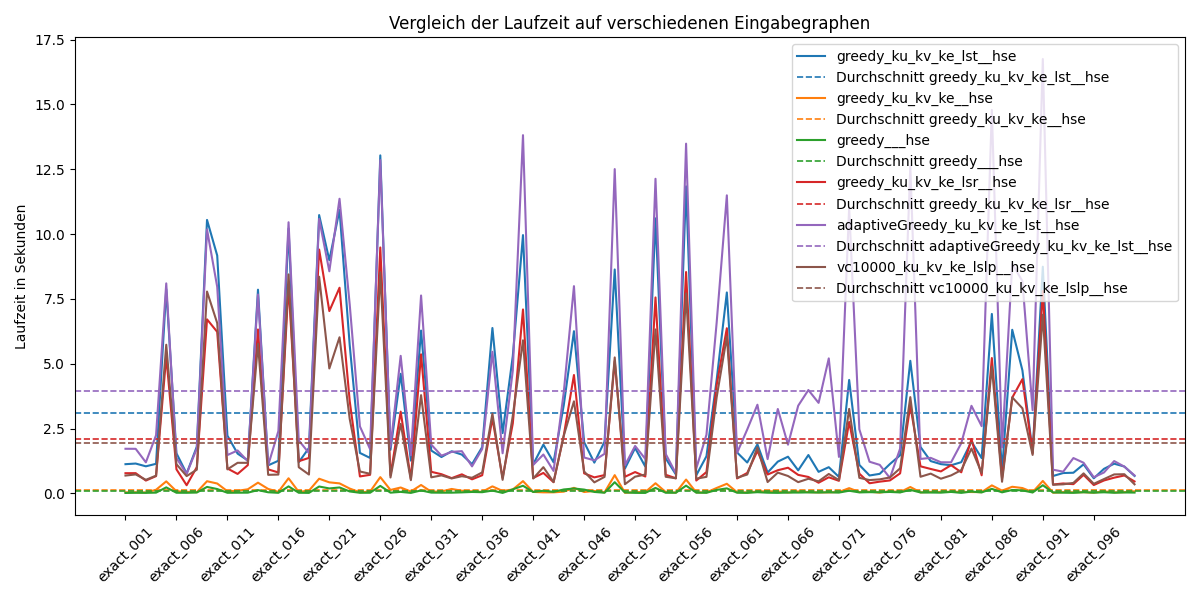
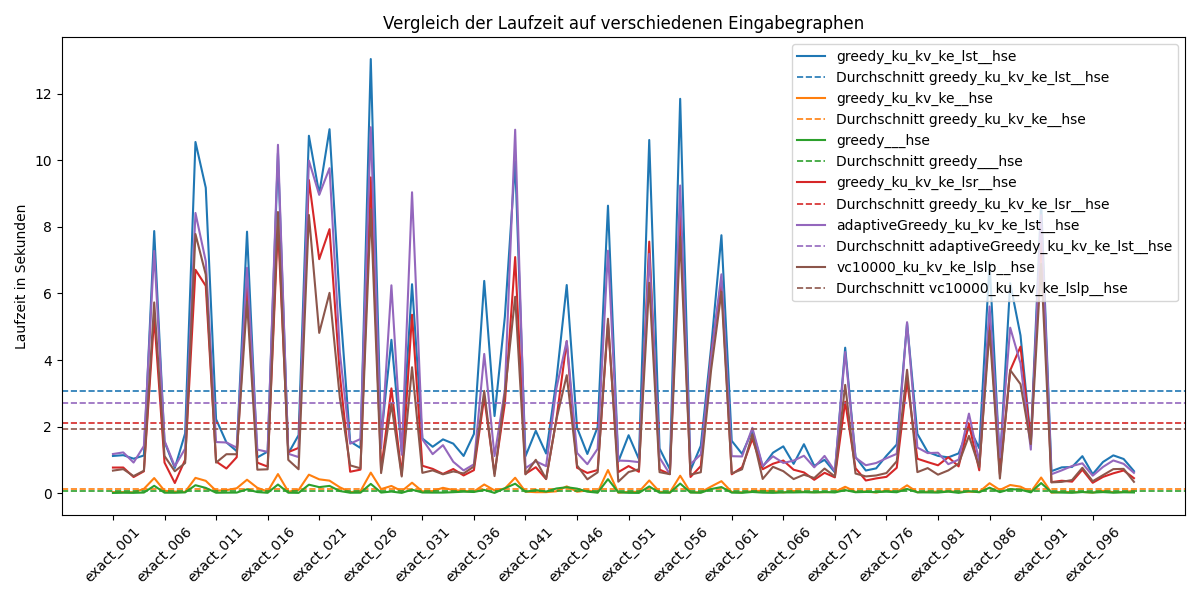
delete edgesOnlyHitByNode

diff --git a/adaptiveGreedyState.cpp b/adaptiveGreedyState.cpp
@@ -11,7 +11,6 @@
 #include "logger.hpp"
 
 AdaptiveGreedyState::AdaptiveGreedyState(NumNodes n, NumEdges m, std::vector<Edge>&& setSystem, const cxxopts::ParseResult& optionsResult) : AlgorithmState(n, m, std::move(setSystem), optionsResult) { // O(n * log n + m * deg_edge)
-    edgesOnlyHitByNode.resize(n + 1);
     nodesHittingEdge.resize(m);
 
     solutionNodeSingleResponsibilities.reserve(n);
@@ -22,7 +21,6 @@ AdaptiveGreedyState::AdaptiveGreedyState(NumNodes n, NumEdges m, std::vector<Edg
 }
 
 AdaptiveGreedyState::AdaptiveGreedyState(Hypergraph& hypergraph, const cxxopts::ParseResult& optionsResult) : AlgorithmState(hypergraph, optionsResult) { // O(n * log n + m * deg_edge)
-    edgesOnlyHitByNode.resize(hypergraph.getMaximumNode() + 1);
     nodesHittingEdge.resize(hypergraph.getMaximumEdgeIndex() + 1);
 
     solutionNodeSingleResponsibilities.reserve(hypergraph.getMaximumNode());
@@ -67,10 +65,6 @@ void AdaptiveGreedyState::addToSolution(Node node) {
         }
         else if (nodesHittingEdge[edgeIndex].size() == 2) {
             Node otherNode = nodesHittingEdge[edgeIndex][0];
-            auto it = std::find(edgesOnlyHitByNode[otherNode].begin(), edgesOnlyHitByNode[otherNode].end(), edgeIndex); // O(deg_node)
-            if (it != edgesOnlyHitByNode[otherNode].end()) {
-                edgesOnlyHitByNode[otherNode].erase(it); // O(deg_node)
-            }
             solutionNodeSingleResponsibilities.update(otherNode, solutionNodeSingleResponsibilities.get_priority(otherNode).second + 1); // again plus because we want a min queue; O(log n)
         }
     } // O(deg_node * (log n + deg_node))
@@ -122,12 +116,10 @@ bool AdaptiveGreedyState::shrinkSolutionIfApplicable(uint32_t highestImpact) {
 }
 
 void AdaptiveGreedyState::addToEdgesOnlyHitByNode(Node node, EdgeIndex edgeIndex) {
-    edgesOnlyHitByNode[node].push_back(edgeIndex); // O(1)
     solutionNodeSingleResponsibilities.set(node, hypergraph.getM() - 1, solutionNodeSingleResponsibilities.get_priority(node).second - 1); // minus because we want a min queue, so this node gets MORE impact and + m because the pq can only handle uint types, making m the "new 0"; O(log n)
 }
 
 void AdaptiveGreedyState::clearEdgesHitByNode(Node node) {
-    edgesOnlyHitByNode[node].clear(); // O(deg_node)
     solutionNodeSingleResponsibilities.remove(node);
 }
 
@@ -151,10 +143,6 @@ void AdaptiveGreedyState::deleteNodes(const std::vector<Node>& nodesToRemove) {
 void AdaptiveGreedyState::deleteEdges(std::vector<EdgeIndex>& edgeIndizesToRemove) {
     for (EdgeIndex edgeIndexToRemove : edgeIndizesToRemove) {
         for (Node node : hypergraph.getEdge(edgeIndexToRemove)) {
-            auto edgesOnlyHitByNodeIt = std::find(edgesOnlyHitByNode[node].begin(), edgesOnlyHitByNode[node].end(), edgeIndexToRemove);
-            if (edgesOnlyHitByNodeIt != edgesOnlyHitByNode[node].end()) {
-                edgesOnlyHitByNode[node].erase(edgesOnlyHitByNodeIt);
-            }
             updateImpact(node, getImpact(node) - 1);
             updateResponsibility(node, getResponsibility(node) - 1);
         }

diff --git a/adaptiveGreedyState.hpp b/adaptiveGreedyState.hpp
@@ -13,7 +13,6 @@
 
 struct AdaptiveGreedyState : AlgorithmState {
 public:
-    std::vector<std::vector<EdgeIndex>> edgesOnlyHitByNode; // maybe unnecessary?
     std::vector<std::vector<Node>> nodesHittingEdge;
     pq::updatable_priority_queue<Node, uint32_t> solutionNodeSingleResponsibilities;
     pq::updatable_priority_queue<Node, uint32_t> potentialNodeImpact;
